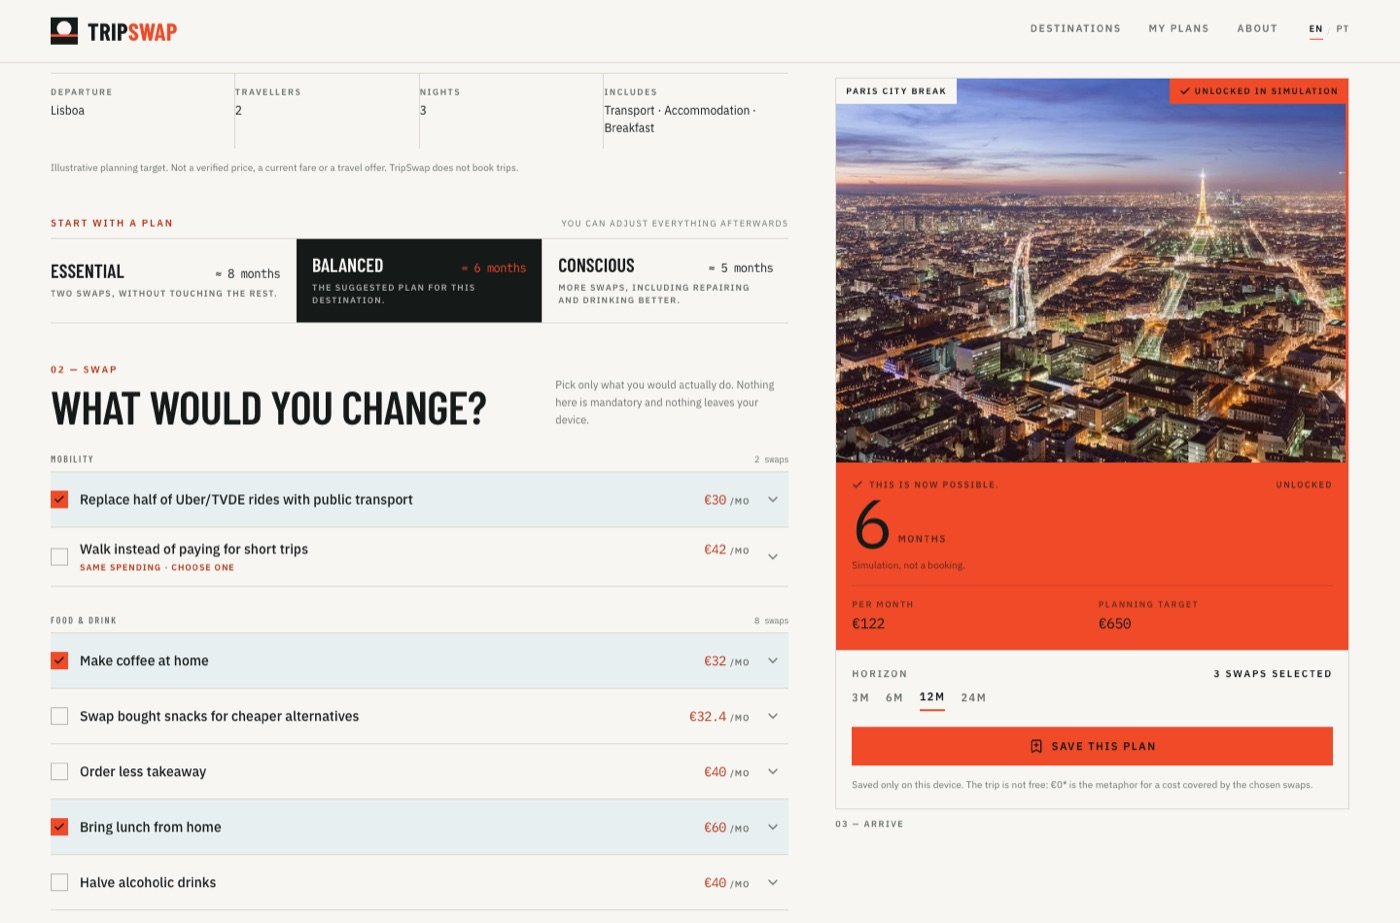
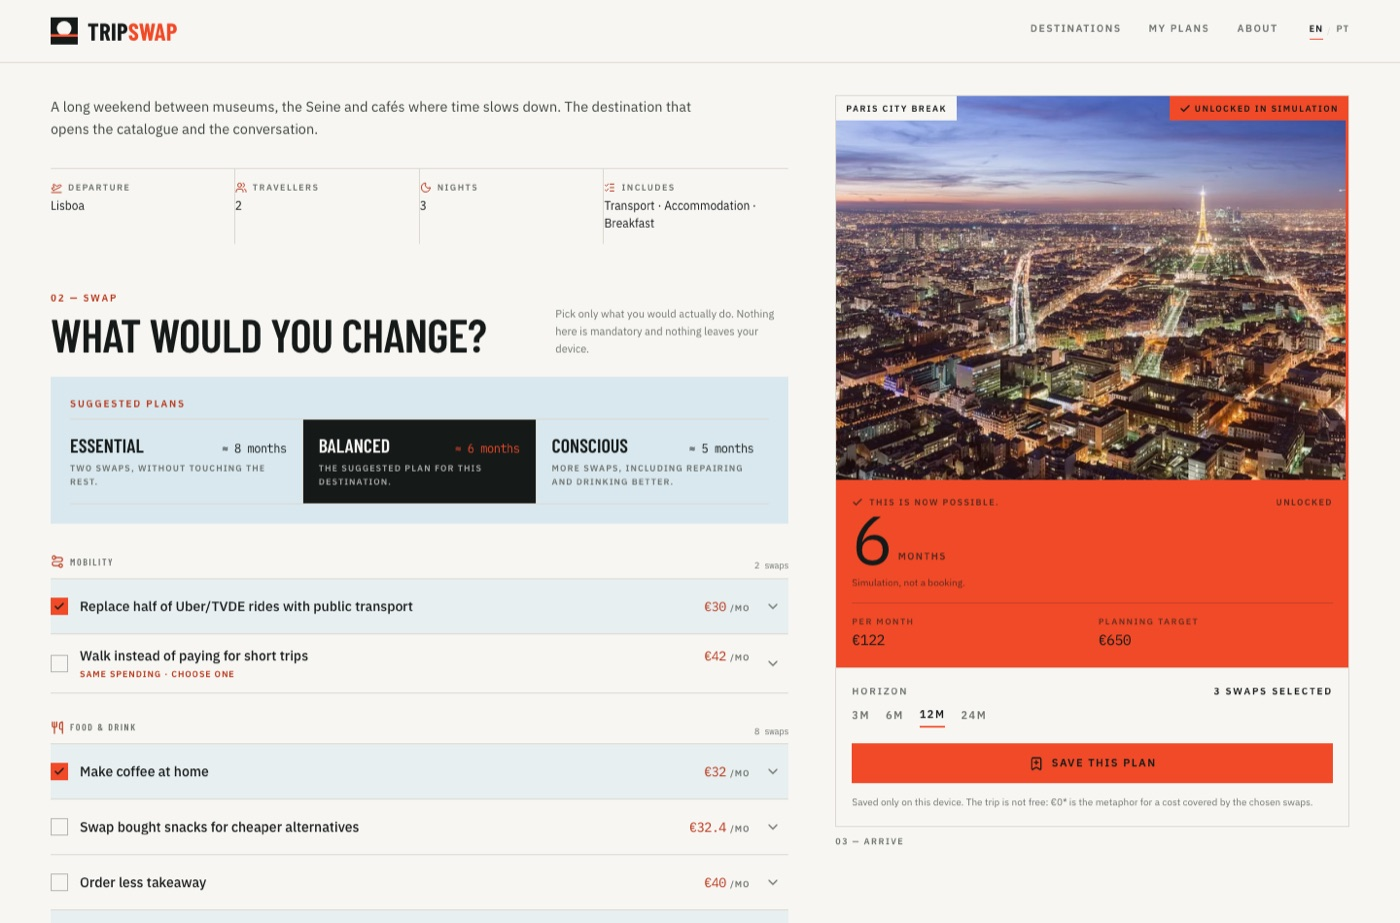
docs: record the clarified detail hierarchy

diff --git a/docs/ITERATIONS.md b/docs/ITERATIONS.md
@@ -42,6 +42,8 @@ commit. Os tempos são reais e incluem revisão manual.
 | 35 | 13 Nov 05:20 | Estabilidade | Cartão de recompensa com altura fixa; sucesso como transformação | 753/462 px constantes | `fix(reward): keep the card height stable on unlock` | 30 min |
 | 36 | 13 Nov 05:28 | Hierarquia | Categorias discretas; atividades com detalhes progressivos | Lista mais calma | `feat(habits): quiet categories and progressive details` | 30 min |
 | 37 | 13 Nov 05:32 | Release | QA, screenshots, changelog e tag | `v1.3.1` | `chore(release): v1.3.1` | 10 min |
+| 38 | 13 Nov 05:38 | Clareza | Planos sugeridos em faixa sky; ícones na meta e categorias | Zona clara | `feat(detail): separate suggested plans from trip data` | 25 min |
+| 39 | 13 Nov 05:42 | Release | Changelog, versão e deploy | `v1.3.3` | `chore(release): v1.3.3` | 10 min |
 
 ## O que aprendi
 

diff --git a/README.pt.md b/README.pt.md
@@ -97,8 +97,10 @@ acrescentado abaixo; só o cartão se transforma. No telemóvel, a barra de fund
 signal.
 
 As linhas de hábitos mostram apenas o nome, a poupança e o estado selecionado. As
-categorias são etiquetas discretas, não títulos; descrições, premissas e benefícios
-ficam atrás de um chevron.
+categorias são etiquetas discretas, não títulos, com um ícone pequeno; descrições,
+premissas e benefícios ficam atrás de um chevron. Os dados da viagem têm ícones, e os
+planos sugeridos vivem numa faixa azul-pálida no início do passo de troca, claramente
+separados dos dados da viagem.
 
 ![O estado de sucesso](docs/assets/success.jpg)
 

diff --git a/README.md b/README.md
@@ -96,8 +96,9 @@ height, a check and **“This is now possible.”** replace the neutral info blo
 is added below; only the card transforms. On mobile the funding bar turns signal.
 
 Habit rows keep only the activity name, the saving and the selected state. Category
-labels are quiet, not headings; descriptions, assumptions and benefits sit behind a
-chevron.
+labels are quiet, not headings, with a small icon; descriptions, assumptions and
+benefits sit behind a chevron. Trip facts are icon-led, and suggested plans live in a
+pale-blue band at the start of the swap step, clearly separate from the trip data.
 
 ![The success state](docs/assets/success.jpg)
 

diff --git a/CHANGELOG.md b/CHANGELOG.md
@@ -3,6 +3,17 @@
 Formato: [Keep a Changelog](https://keepachangelog.com/pt-PT/1.1.0/) ·
 Versionamento semântico.
 
+## [1.3.3] — 2026-11-13
+
+### Alterado
+
+- Zona de planos sugeridos separada dos dados da viagem: passa para o início do passo
+  “What would you change?”, com fundo sky e a etiqueta “Suggested plans”.
+- Removido “You can adjust everything afterwards”.
+- Removido o parágrafo “Illustrative planning target…” do detalhe.
+- Ícones pequenos nos dados da viagem (partida, viajantes, noites, inclui) e nas
+  categorias de hábitos.
+
 ## [1.3.2] — 2026-11-13
 
 ### Corrigido
